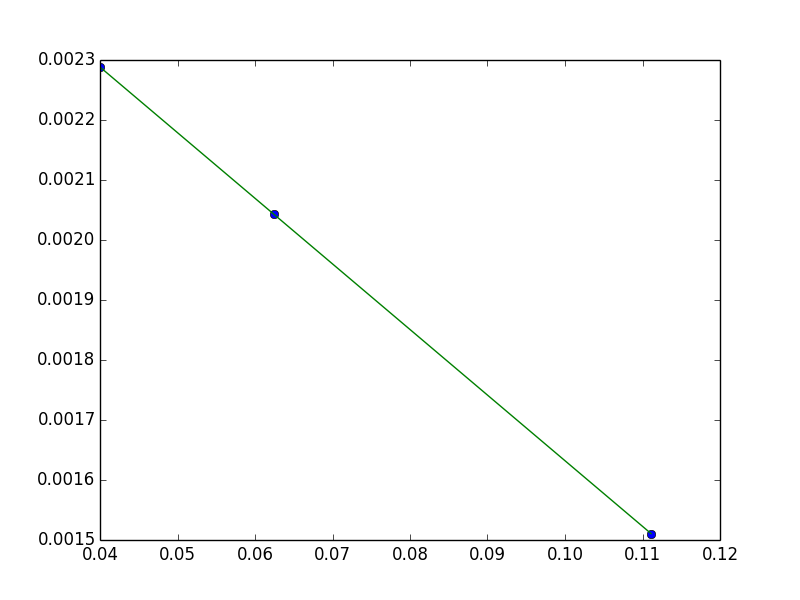
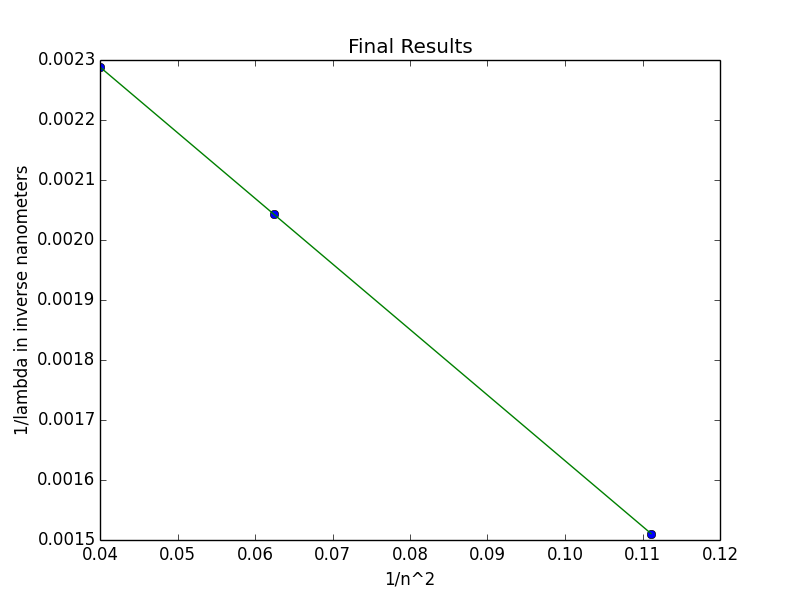
final AS plot

Changed region(s): [[0.0, 0.27, 0.0312, 0.72], [0.4375, 0.06, 0.5938, 0.09], [0.4688, 0.96, 0.5312, 0.99]]

diff --git a/atomicSpectra/analyse.py b/atomicSpectra/analyse.py
@@ -7,30 +7,34 @@ def angle(dataFile):
 	return angle
 
 def wavelength(angle,order):
-	d = 1670 #CHANGE THIS TO REFLECT ACTUAL VALUE OF DIFFRACTION GRATING USED  in nm
+	d = 1670 #in nm
 	return(d*np.sin(np.radians(angle))/order)
 
-# theta2 = angle('HelliumFirstOrder.Data')
-# theta3 = angle('HelliumSecondOrder.Data')
-# He_wl1 = wavelength(theta2,1)
-# He_wl2 = wavelength(theta3,2)
-# He_wl  = (He_wl1+He_wl2)/2.
+theta2 = angle('HeliumFirstOrder.Data')
+theta3 = angle('HeliumSecondOrder.Data')
+He_wl1 = wavelength(theta2,1)
+He_wl2 = wavelength(theta3,2)
+He_wl  = (He_wl1+He_wl2)/2.
+print theta2
+print He_wl
 
 theta1 = angle('Hydrogen.Data')
 H_wl   = wavelength(theta1,1)
-n = np.arange(4,1,-1)
+print theta1
+print H_wl
+n = np.arange(5,2,-1)
 coefs =  np.polyfit(1./n**2,1/H_wl,1)
-print coefs[1]/4
+# print coefs
+print coefs[1]*4
 print -coefs[0]
 plt.plot(1./n**2,1/H_wl,'o')
-<<<<<<< HEAD
 plt.plot(1./n**2,coefs[0]*1./n**2+coefs[1])
+plt.xlabel('1/n^2')
+plt.ylabel('1/lambda in inverse nanometers')
+plt.title('Final Results')
 plt.savefig('finalResult.png')
 
-
-
-
-
-=======
 plt.show()
->>>>>>> origin/master
+
+
+
